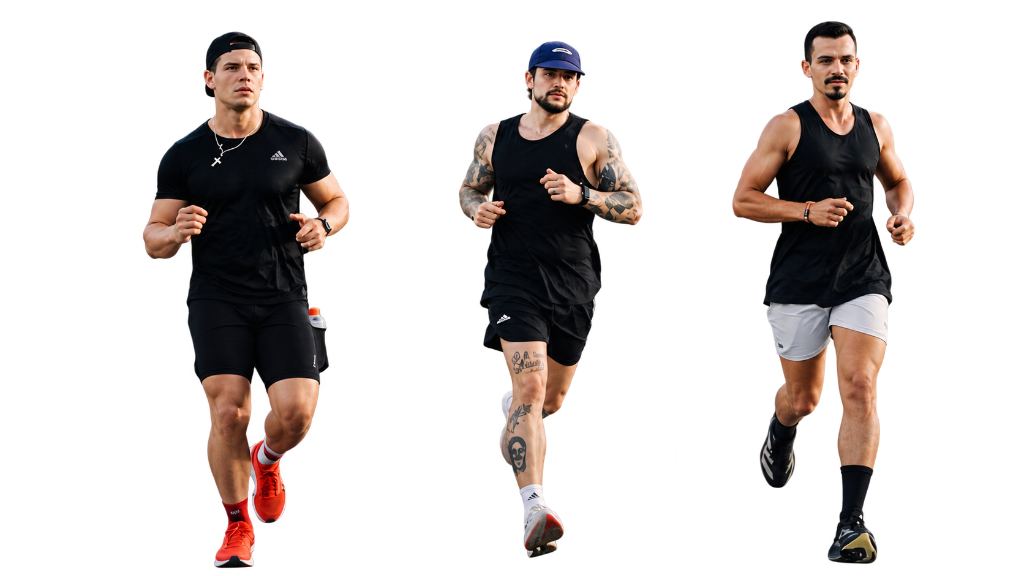
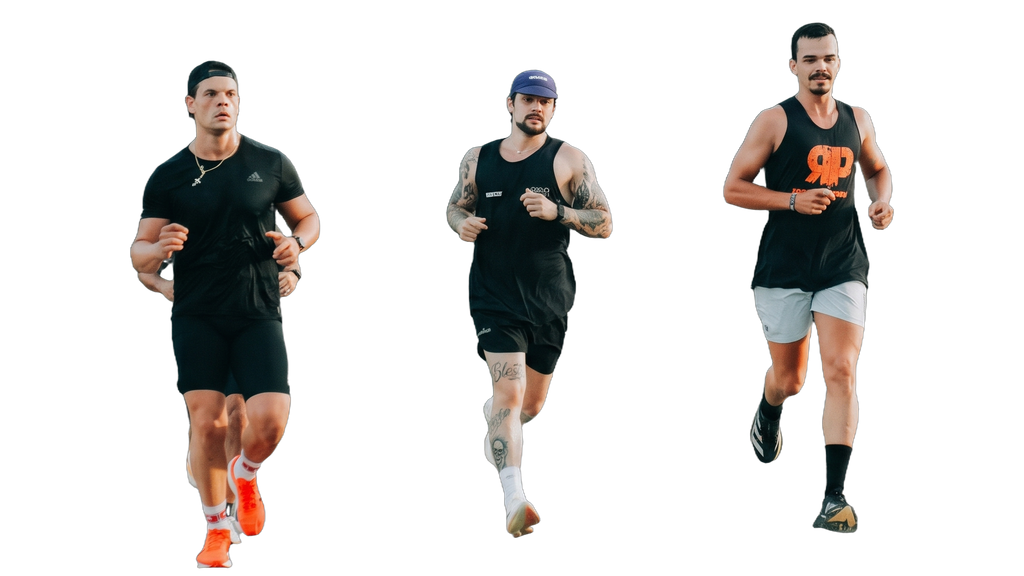
feat(hero): atualiza camada dos 3 corredores com fidelidade facial real e assenta no asfalto

Changed region(s): [[0.6875, 0.0312, 0.9062, 1.0], [0.125, 0.0312, 0.3438, 1.0], [0.4375, 0.0625, 0.625, 0.9688]]

diff --git a/style.css b/style.css
@@ -3121,11 +3121,6 @@ img, picture {
 
 /* Mobile & Telas Verticais (max-width: 768px) */
 @media (max-width: 768px) {
-  :root {
-    /* Altura aproximada da barra mobile (texto + 2 botões empilhados) */
-    --hero-bar-offset: 235px;
-  }
-
   /* Título em 2 Linhas Alinhado e Contido */
   .hero__title {
     flex-direction: column;
@@ -3144,16 +3139,15 @@ img, picture {
     padding-top: 0;
   }
 
-  /* Os PNGs dos corredores são 16:9 e os 3 atletas ocupam ~75% da largura.
-     Dimensiona pela largura da tela e eleva o pelotão acima da barra de texto/botões. */
+  /* Corredores ancorados firmemente no asfalto (sem flutuar) com escala monumental */
   .layer--mid {
-    height: min(60vw, 54svh);
-    bottom: calc(var(--hero-bar-offset) + 2svh);
+    height: clamp(330px, 50svh, 540px);
+    bottom: 2svh;
   }
 
   .layer--front {
-    height: min(73vw, 66svh);
-    bottom: var(--hero-bar-offset);
+    height: clamp(400px, 62svh, 680px);
+    bottom: 0;
   }
 
   .hero__bar {

diff --git a/script.js b/script.js
@@ -70,21 +70,6 @@
     }
   };
 
-  // 2.1 Mobile: mede a barra de texto/botões para assentar os corredores logo acima dela
-  const syncHeroBarOffset = () => {
-    if (!heroBar) return;
-    const h = heroBar.offsetHeight;
-    if (h > 0) {
-      document.documentElement.style.setProperty('--hero-bar-offset', `${Math.max(h - 6, 0)}px`);
-    }
-  };
-  syncHeroBarOffset();
-  window.addEventListener('resize', syncHeroBarOffset, { passive: true });
-  window.addEventListener('load', syncHeroBarOffset);
-  if (typeof ResizeObserver !== 'undefined' && heroBar) {
-    new ResizeObserver(syncHeroBarOffset).observe(heroBar);
-  }
-
   // 3. Menu Mobile Drawer Acessível
   let closeMobileDrawer = null;
   if (navToggle && navDrawer) {
